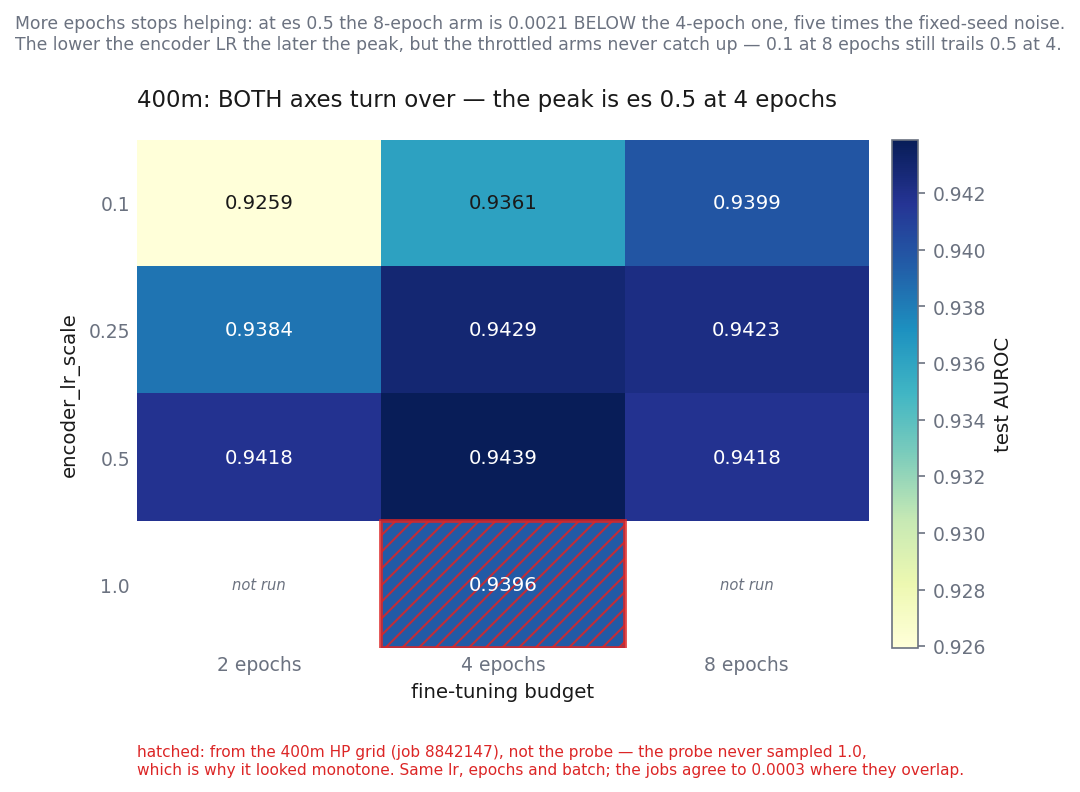
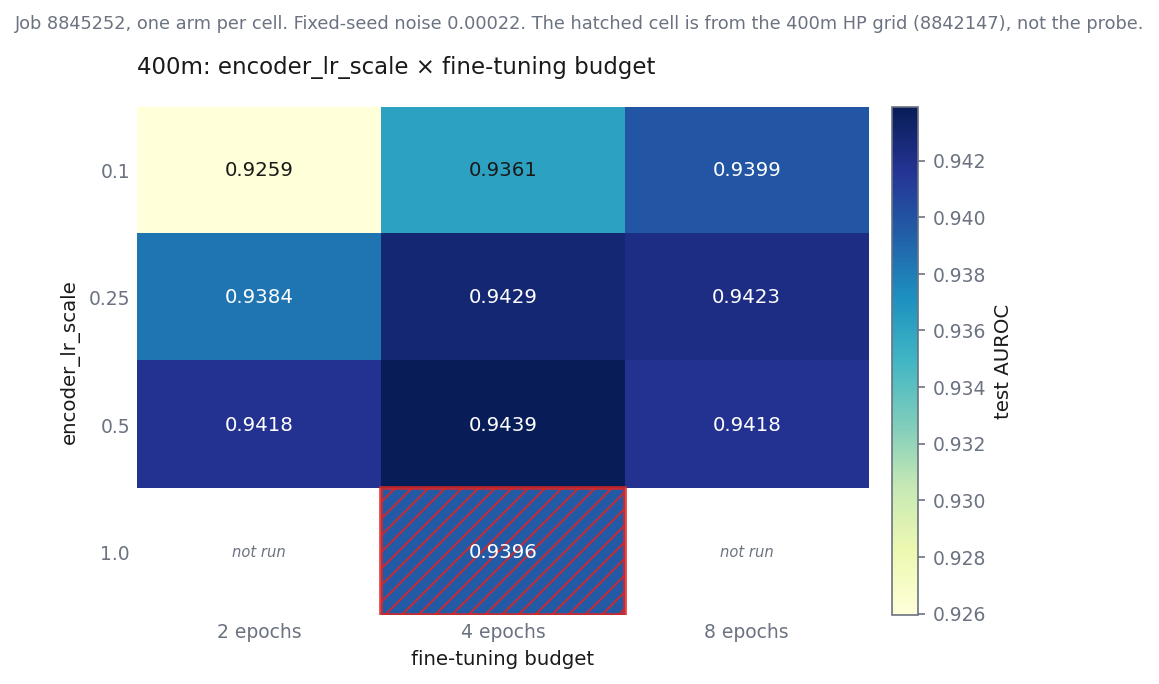
One scaling figure, no diff panels, titles that are titles
AUROC and F1 answer the same question and agree on every step, so they belong
side by side in one figure rather than two. The third panel each of them carried
was a bar chart of three differences, restating what the curve already shows;
the per-step values with t and p are in results/denoise_scale_seeds.txt.

Titles now name what is plotted. They were carrying conclusions -- "the turnover
is marginal", "the floor is the learning rate, not freezing", "BOTH axes turn
over", "the peak is at 0.5" -- which is the text's job, not a title's. Also
removed the in-plot commentary blocks from top_cluster and the paragraph under
the heatmap; what is needed for provenance moved into the captions.

diff --git a/sweeps/plot_denoise.py b/sweeps/plot_denoise.py
@@ -4,9 +4,8 @@
 
 Four figures, each making one point that a table makes badly:
 
-  auroc_scaling        the curve turns over, and the error bars are small enough to say so
-  f1_scaling           the same on F1, where the turnover is marginal rather than decisive
-  pretrain_ablation    what pretraining is worth, against a random encoder
+  scaling              denoise against model size, AUROC and F1
+  pretrain_ablation    pretrained against a random encoder, AUROC and F1
 
 and under figures/extra/, the three that explain how those were reached:
 
@@ -67,83 +66,48 @@ def annotate(ax, text, xy, xytext, color=INK):
                                              shrinkA=0, shrinkB=3))
 
 
-def _scaling_figure(runs: Path, metric: str, label: str, colour: str,
-                    filename: str) -> None:
-    """One metric's scale curve plus its step significance.
+def fig_scaling(runs: Path) -> None:
+    """The denoise scale curve on both metrics, FT5: 4 scales x 6 seeds (job 8845262).
 
-    AUROC and F1 get separate figures because they are separate claims: F1 is
-    thresholded at 0.5 and AUROC is not, so a calibration shift moves one and not the
-    other. They happen to agree on every step here, and each figure says so.
+    One figure rather than two: AUROC and F1 answer the same question and agree on
+    every step, so putting them side by side is the comparison. The per-step table that
+    used to occupy a third panel is in results/denoise_scale_seeds.txt -- a bar chart of
+    three differences restated what the curve already shows.
     """
     recs = load(runs, "8845262")
     scales = ["50m", "100m", "200m", "400m"]
     x = np.arange(len(scales))
-    mean, sd = [], []
-    for s in scales:
-        v = [r[metric] for a, r in recs.items() if a.startswith(s + "_")]
-        mean.append(np.mean(v)); sd.append(np.std(v, ddof=1))
-    mean, sd = np.array(mean), np.array(sd)
 
-    fig, (ax, ax2) = plt.subplots(1, 2, figsize=(9.8, 3.9),
-                                  gridspec_kw={"width_ratios": [1.35, 1]})
+    fig, axes = plt.subplots(1, 2, figsize=(11.0, 4.2))
+    for ax, metric, label, colour in ((axes[0], "test_auroc", "AUROC", BLUE),
+                                      (axes[1], "test_f1", "F1", "#7c3aed")):
+        mean, sd = [], []
+        for s in scales:
+            v = [r[metric] for a, r in recs.items() if a.startswith(s + "_")]
+            mean.append(np.mean(v)); sd.append(np.std(v, ddof=1))
+        mean, sd = np.array(mean), np.array(sd)
 
-    ax.fill_between(x, mean - sd, mean + sd, color=colour, alpha=0.16, lw=0)
-    ax.plot(x[:3], mean[:3], "-", color=colour, lw=2, zorder=3)
-    ax.plot(x[2:], mean[2:], "-", color=RED, lw=2, zorder=3)
-    ax.errorbar(x, mean, yerr=sd, fmt="o", ms=6, color=colour, ecolor=colour,
-                capsize=4, lw=1.4, zorder=4)
-    ax.plot(x[3], mean[3], "o", ms=6, color=RED, zorder=5)
-    span = (mean + sd).max() - (mean - sd).min()
-    for xi, m, e in zip(x, mean, sd):
-        ax.annotate(f"{m:.4f}", (xi, m + e), textcoords="offset points",
-                    xytext=(0, 7), ha="center", fontsize=8.5, color=INK)
-    ax.set_ylim((mean - sd).min() - 0.12 * span, (mean + sd).max() + 0.22 * span)
-    ax.set_xticks(x); ax.set_xticklabels(scales)
-    ax.set_xlabel("model size"); ax.set_ylabel(f"test {label}")
-    ax.set_title(f"{label} improves with size — then turns over at 400m",
-                 loc="left", pad=16)
-    ax.grid(axis="y"); ax.set_axisbelow(True); ax.set_xlim(-0.35, 3.45)
-    ax.text(0.98, 0.04, "shaded band = ±1 sd over 6 seeds", transform=ax.transAxes,
-            fontsize=7.8, color=MUTED, ha="right")
+        ax.fill_between(x, mean - sd, mean + sd, color=colour, alpha=0.16, lw=0)
+        ax.plot(x[:3], mean[:3], "-", color=colour, lw=2.2, zorder=3)
+        ax.plot(x[2:], mean[2:], "-", color=RED, lw=2.2, zorder=3)
+        ax.errorbar(x, mean, yerr=sd, fmt="o", ms=6, color=colour, ecolor=colour,
+                    capsize=4, lw=1.4, zorder=4)
+        ax.plot(x[3], mean[3], "o", ms=6, color=RED, zorder=5)
+        span = (mean + sd).max() - (mean - sd).min()
+        for xi, m, e in zip(x, mean, sd):
+            ax.annotate(f"{m:.4f}", (xi, m + e), textcoords="offset points",
+                        xytext=(0, 8), ha="center", fontsize=8, color=INK)
+        ax.set_ylim((mean - sd).min() - 0.12 * span, (mean + sd).max() + 0.24 * span)
+        ax.set_xticks(x); ax.set_xticklabels(scales)
+        ax.set_xlim(-0.35, 3.45)
+        ax.set_xlabel("model size"); ax.set_ylabel(f"test {label}")
+        ax.set_title(f"test {label}", loc="left", pad=14)
+        ax.grid(axis="y"); ax.set_axisbelow(True)
 
-    steps = [(f"{a}→{b}", mean[i + 1] - mean[i],
-              np.sqrt(sd[i] ** 2 / 6 + sd[i + 1] ** 2 / 6))
-             for i, (a, b) in enumerate(zip(scales, scales[1:]))]
-    y = np.arange(len(steps))[::-1]
-    ax2.barh(y, [g for _, g, _ in steps], height=0.5,
-             color=[GREEN if g > 0 else RED for _, g, _ in steps], alpha=0.85)
-    ax2.errorbar([g for _, g, _ in steps], y, xerr=[e for _, _, e in steps],
-                 fmt="none", ecolor=INK, capsize=3, lw=1)
-    widest = max(abs(g) for _, g, _ in steps)
-    for yi, (lab, g, e) in zip(y, steps):
-        ax2.text(max(g, 0) + 0.05 * widest, yi, f"{g:+.4f}   t={g/e:+.0f}",
-                 va="center", ha="left", fontsize=8.2)
-    ax2.axvline(0, color=MUTED, lw=0.9)
-    ax2.set_yticks(y); ax2.set_yticklabels([s[0] for s in steps])
-    ax2.set_xlabel(f"change in test {label}")
-    ts = [abs(g / e) for _, g, e in steps]
-    # Do not claim more than the metric gives: F1 carries about twice the seed
-    # noise of AUROC, so the same turnover lands at t=-3 there against t=-6.
-    ax2.set_title("Every step resolves" if min(ts) >= 4 else
-                  "First two steps resolve; the turnover is marginal",
-                  loc="left", pad=16)
-    ax2.set_xlim(-0.30 * widest, 1.75 * widest)
-    ax2.grid(axis="x"); ax2.set_axisbelow(True)
-    ax2.set_ylim(-0.6, len(steps) - 0.4)
-
-    fig.suptitle(f"FT5 — 4 scales × 6 seeds, one fixed configuration (job 8845262). "
-                 f"AUROC and F1 agree on all three steps.",
-                 x=0.005, ha="left", fontsize=8.5, color=MUTED, y=1.04)
-    fig.savefig(FIGS / filename)
+    fig.suptitle("FT5, job 8845262. 6 seeds per scale, band is ±1 sd.",
+                 x=0.005, ha="left", fontsize=8.5, color=MUTED, y=1.02)
+    fig.savefig(FIGS / "scaling.png")
     plt.close(fig)
-
-
-def fig_auroc_scaling(runs: Path) -> None:
-    _scaling_figure(runs, "test_auroc", "AUROC", BLUE, "auroc_scaling.png")
-
-
-def fig_f1_scaling(runs: Path) -> None:
-    _scaling_figure(runs, "test_f1", "F1", "#7c3aed", "f1_scaling.png")
 
 
 def fig_top_cluster(runs: Path) -> None:
@@ -169,29 +133,23 @@ def fig_top_cluster(runs: Path) -> None:
     ax.scatter(rank[lowlr & ~frozen], v[lowlr & ~frozen], s=13, color=AMBER, zorder=4,
                label="lr 1e-6")
     ax.set_xlabel("arm, ranked by test AUROC"); ax.set_ylabel("test AUROC")
-    ax.set_title("216 arms: the floor is the learning rate, not freezing",
-                 loc="left", pad=16)
+    ax.set_title("216 arms ranked by test AUROC", loc="left", pad=16)
     ax.grid(axis="y"); ax.set_axisbelow(True); ax.set_xlim(0, len(v) + 2)
     ax.legend(frameon=False, fontsize=8, loc="lower left", handletextpad=0.3)
-    ax.text(0.98, 0.96, f"frozen arms span {v[frozen].min():.4f}–{v[frozen].max():.4f}\n"
-            f"and never reach the top cluster", transform=ax.transAxes, ha="right",
-            va="top", fontsize=7.8, color=MUTED)
 
     k = 26
     ax2.axhspan(best - 2 * noise, best, color=AMBER, alpha=0.20, lw=0)
     ax2.plot(rank[:k], v[:k], "o-", color=BLUE, lw=1.5, ms=4.5)
     ax2.axhline(best, color=RED, lw=0.9, ls="--")
     ax2.set_xlabel("rank"); ax2.set_ylabel("test AUROC")
-    ax2.set_title(f"Top {k}: {inside} arms are one measurement", loc="left", pad=16)
+    ax2.set_title(f"Top {k}", loc="left", pad=16)
     ax2.grid(axis="y"); ax2.set_axisbelow(True)
-    ax2.text(0.97, 0.10,
-             f"band = ±2 sd of seed noise (0.0005)\ntop {inside} arms fall inside it",
-             transform=ax2.transAxes, ha="right", fontsize=7.8, color=INK)
     ax2.annotate(f"best {best:.4f}", xy=(1, best), xytext=(7, best + 0.0006),
                  fontsize=8.2, color=RED,
                  arrowprops=dict(arrowstyle="-", lw=0.7, color=RED))
 
-    fig.suptitle("50m hyperparameter grid (job 8840408); seed noise 0.0005 from FT5",
+    fig.suptitle("50m hyperparameter grid (job 8840408). Band is ±2 sd of the 0.0005 "
+                 "seed noise measured in FT5.",
                  x=0.005, ha="left", fontsize=8.5, color=MUTED, y=1.02)
     fig.savefig(EXTRA / "top_cluster.png")
     plt.close(fig)
@@ -238,14 +196,14 @@ def fig_encoder_lr(runs: Path) -> None:
             zorder=2, label="extrapolating the probe")
     ax.scatter([0.5], [ys[-1]], s=150, facecolor="none", edgecolor=GREEN, lw=1.6, zorder=5)
     ax.set_xlabel("encoder_lr_scale"); ax.set_ylabel("test AUROC")
-    ax.set_title("400m: the peak is at 0.5", loc="left", pad=16)
+    ax.set_title("400m, 4 epochs", loc="left", pad=16)
     ax.grid(axis="y"); ax.set_axisbelow(True); ax.set_xlim(0.02, 1.13)
     ax.legend(frameon=False, fontsize=7.8, loc="lower right", borderaxespad=0.5)
 
     x = np.arange(len(scales))
     for ax, kind, title in (
-            (axes[1], "small", "Small batch (12): 0.5 wins at all four scales"),
-            (axes[2], "large", "Large batch (144 at 50m, 48 else): 1.0 wins, all four")):
+            (axes[1], "small", "Effective batch 12"),
+            (axes[2], "large", "Large batch (144 at 50m, 48 elsewhere)")):
         a = np.array([val(s, "05", kind) for s in scales])
         b = np.array([val(s, "10", kind) for s in scales])
         ax.fill_between(x, a, b, color=GRID, alpha=0.9, lw=0, zorder=1)
@@ -263,8 +221,8 @@ def fig_encoder_lr(runs: Path) -> None:
         ax.grid(axis="y"); ax.set_axisbelow(True); ax.set_xlim(-0.3, 3.3)
         ax.legend(frameon=False, fontsize=7.8, loc="lower right")
 
-    fig.suptitle("encoder_lr_scale: how hard to push the pretrained encoder. The best "
-                 "value depends on batch size, the same way at every scale.",
+    fig.suptitle("encoder_lr_scale is the encoder LR as a multiple of the head's. "
+                 "Left: the 400m probe. Right: 0.5 against 1.0 at each scale.",
                  x=0.005, ha="left", fontsize=8.5, color=MUTED, y=1.03)
     fig.savefig(EXTRA / "encoder_lr_scale.png")
     plt.close(fig)
@@ -311,25 +269,17 @@ def fig_probe_heatmap(runs: Path) -> None:
     if borrowed:
         ax.add_patch(plt.Rectangle((0.5, 2.5), 1, 1, fill=False, edgecolor=RED,
                                    lw=1.8, hatch="///", alpha=0.85))
-        ax.text(0.0, -0.19,
-                "hatched: from the 400m HP grid (job 8842147), not the probe — the "
-                "probe never sampled 1.0,\nwhich is why it looked monotone. Same lr, "
-                "epochs and batch; the jobs agree to 0.0003 where they overlap.",
-                transform=ax.transAxes, fontsize=7.4, color=RED, va="top")
     ax.set_xticks(range(len(eps))); ax.set_xticklabels([e[2:] + " epochs" for e in eps])
     ax.set_yticks(range(len(es))); ax.set_yticklabels(labels)
     ax.set_ylabel("encoder_lr_scale"); ax.set_xlabel("fine-tuning budget")
-    ax.set_title("400m: BOTH axes turn over — the peak is es 0.5 at 4 epochs",
-                 loc="left", pad=16)
+    ax.set_title("400m: encoder_lr_scale × fine-tuning budget", loc="left", pad=16)
     for sp in ax.spines.values():
         sp.set_visible(False)
     ax.tick_params(length=0)
     fig.colorbar(im, ax=ax, fraction=0.045, pad=0.03, label="test AUROC")
-    fig.suptitle("More epochs stops helping: at es 0.5 the 8-epoch arm is 0.0021 BELOW "
-                 "the 4-epoch one, five times the fixed-seed noise.\nThe lower the "
-                 "encoder LR the later the peak, but the throttled arms never catch up "
-                 "— 0.1 at 8 epochs still trails 0.5 at 4.",
-                 x=0.005, ha="left", fontsize=8.3, color=MUTED, y=1.07)
+    fig.suptitle("Job 8845252, one arm per cell. Fixed-seed noise 0.00022. The "
+                 "hatched cell is from the 400m HP grid (8842147), not the probe.",
+                 x=0.005, ha="left", fontsize=8.5, color=MUTED, y=1.02)
     fig.savefig(EXTRA / "probe_heatmap.png")
     plt.close(fig)
 
@@ -378,8 +328,7 @@ def fig_pretrain_ablation(runs: Path) -> None:
         ax.set_xticks([2, 4, 8]); ax.set_xticklabels([f"{e} epochs" for e in (2, 4, 8)])
         ax.set_xlim(1.5, 8.9)
         ax.set_xlabel("fine-tuning budget"); ax.set_ylabel(f"test {label}")
-        ax.set_title(f"{label}: +{P[4]-S[4]:.3f} at 4 epochs, +{top8-S[8]:.3f} at 8",
-                     loc="left", pad=14)
+        ax.set_title(f"test {label}", loc="left", pad=14)
         ax.grid(axis="y"); ax.set_axisbelow(True)
         ax.legend(frameon=False, fontsize=8.4, loc="lower right")
     fig.savefig(FIGS / "pretrain_ablation.png")
@@ -395,8 +344,8 @@ def main() -> int:
         raise SystemExit(f"no run directory at {runs}")
     FIGS.mkdir(parents=True, exist_ok=True)
     EXTRA.mkdir(parents=True, exist_ok=True)
-    for fn in (fig_auroc_scaling, fig_f1_scaling, fig_top_cluster,
-               fig_encoder_lr, fig_probe_heatmap, fig_pretrain_ablation):
+    for fn in (fig_scaling, fig_top_cluster, fig_encoder_lr,
+               fig_probe_heatmap, fig_pretrain_ablation):
         fn(runs)
         print(f"  {fn.__name__}")
     return 0

diff --git a/results/README.md b/results/README.md
@@ -19,7 +19,7 @@ sweep arm configs they cannot be reproduced from this repository alone.
 | `grid_denoise_scratch.txt` | The same 50m fine-tune with a **random** encoder — the pretraining ablation. |
 | `grid_denoise_50m_earlytest.txt` | The same 50m grid on a reduced evaluation. **Not comparable** — see below. |
 | `checkpoint_provenance.txt` | Which pretrained checkpoint each scale was fine-tuned from. |
-| `figures/` | The three headline claims: `auroc_scaling`, `f1_scaling`, `pretrain_ablation`. |
+| `figures/` | `scaling` (denoise vs model size, AUROC and F1) and `pretrain_ablation` (pretrained vs random, AUROC and F1). |
 | `figures/extra/` | Supporting: `top_cluster` (why a grid best is not a measurement), `encoder_lr_scale` (how hard to push the encoder, and why it depends on batch size), `probe_heatmap` (`encoder_lr_scale` × epochs at 400m). |
 
 ## What the numbers say
@@ -37,7 +37,7 @@ F1 agrees on every step: +0.0093 (t=15), +0.0062 (t=10), −0.0015 (t=−3). It 
 about twice the seed noise — it is thresholded at 0.5 where AUROC is not — so the
 turnover is marginal in F1 where it is decisive in AUROC. The sign is the same at all
 three steps, which is the useful thing: a calibration shift would have moved one metric
-and not the other. See `figures/auroc_scaling.png` and `figures/f1_scaling.png`.
+and not the other. See `figures/scaling.png`.
 
 Every step resolves, including the last. An earlier reading called 200m → 400m a
 plateau; that came from one seed per scale judged against each grid's internal arm
